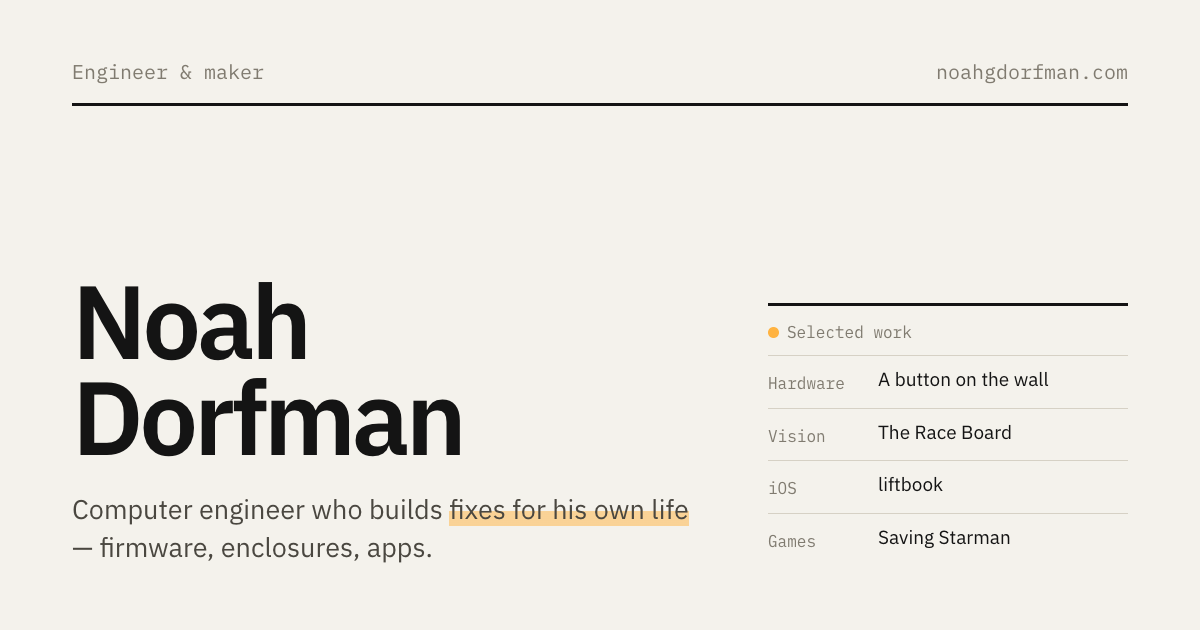
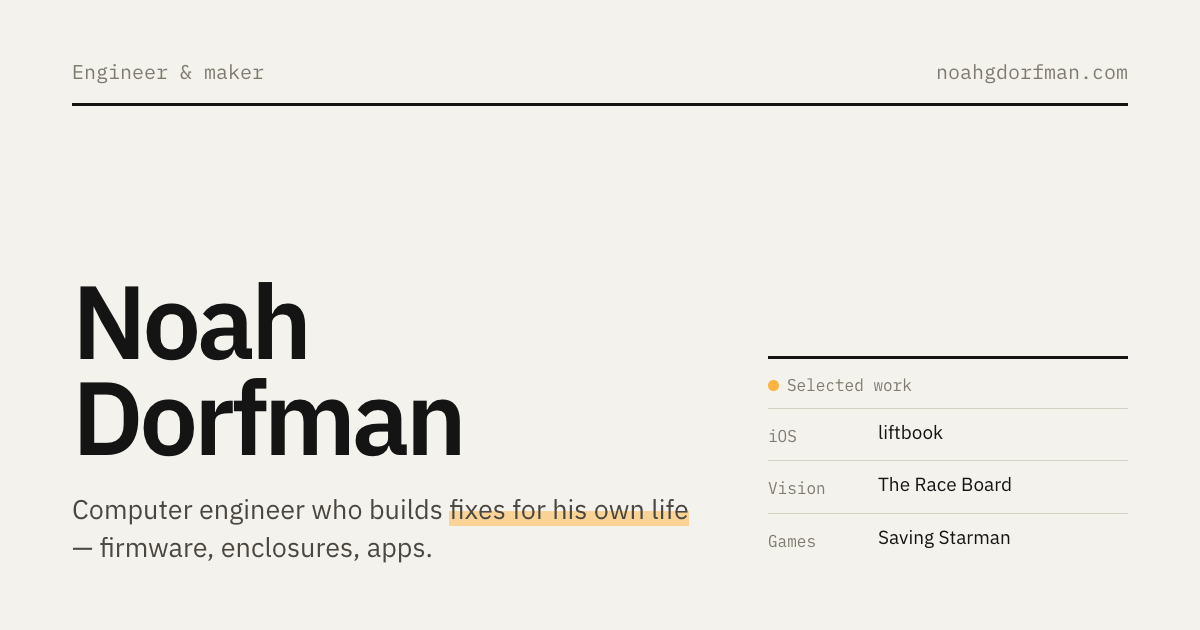
Social card: lead with liftbook

diff --git a/index.html b/index.html
@@ -11,9 +11,9 @@
 <meta property="og:url" content="https://noahgdorfman.com/">
 <meta property="og:title" content="Noah Dorfman">
 <meta property="og:description" content="Computer engineer and maker. Firmware, enclosures, apps, and the occasional button on the wall.">
-<meta property="og:image" content="https://noahgdorfman.com/assets/social.png?v=2">
+<meta property="og:image" content="https://noahgdorfman.com/assets/social.png?v=3">
 <meta name="twitter:card" content="summary_large_image">
-<meta name="twitter:image" content="https://noahgdorfman.com/assets/social.png?v=2">
+<meta name="twitter:image" content="https://noahgdorfman.com/assets/social.png?v=3">
 
 <link rel="preconnect" href="https://fonts.googleapis.com">
 <link rel="preconnect" href="https://fonts.gstatic.com" crossorigin>

diff --git a/design/social.html b/design/social.html
@@ -34,9 +34,8 @@ html, body { width: 1200px; height: 630px; overflow: hidden; }
         <aside class="status">
             <div class="head"><span><span class="dot"></span>Selected work</span></div>
             <dl>
-                <dt>Hardware</dt><dd>A button on the wall</dd>
-                <dt>Vision</dt><dd>The Race Board</dd>
                 <dt>iOS</dt><dd>liftbook</dd>
+                <dt>Vision</dt><dd>The Race Board</dd>
                 <dt>Games</dt><dd>Saving Starman</dd>
             </dl>
         </aside>
